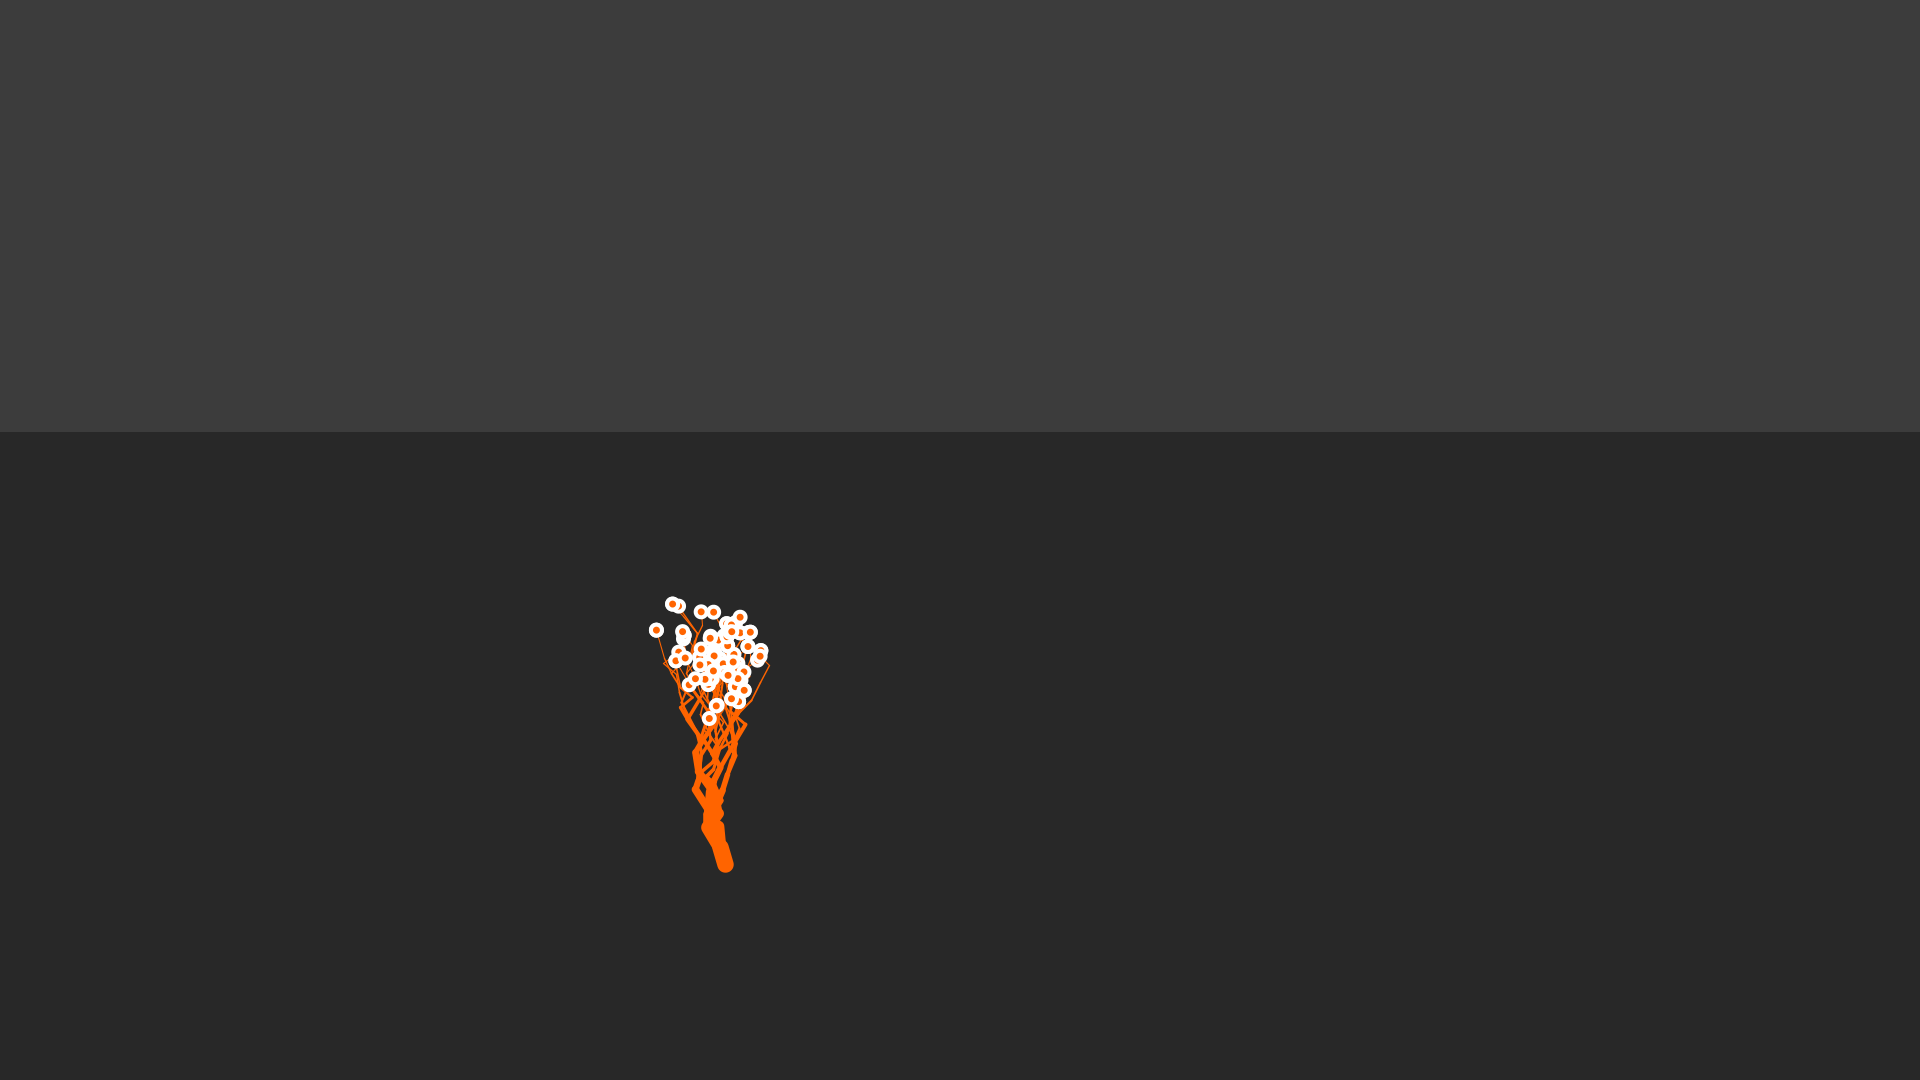
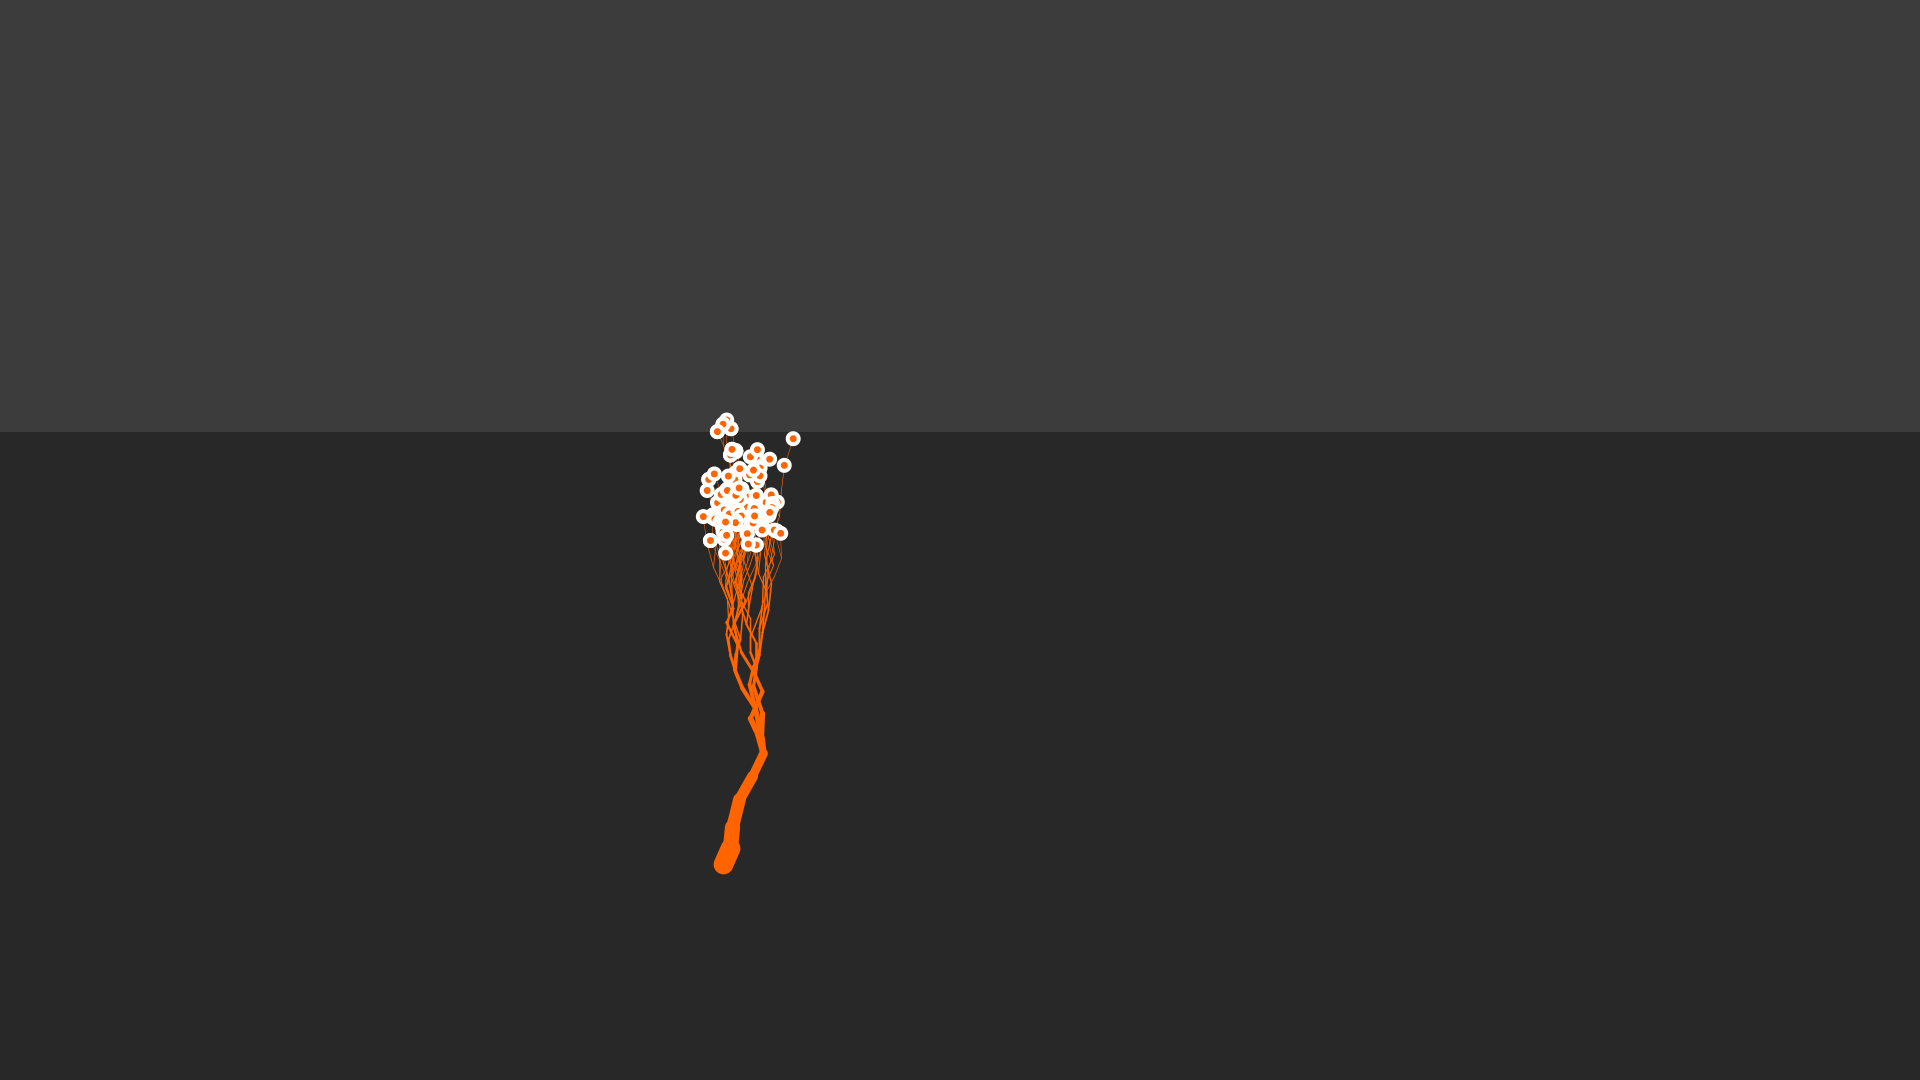
partially reverted extraction of state from PlantSegment

Changed region(s): [[0.3438, 0.3667, 0.4375, 0.7944]]

diff --git a/tree/src/main/java/team/dedica/logo/tree/ForestPlanter.java b/tree/src/main/java/team/dedica/logo/tree/ForestPlanter.java
@@ -2,7 +2,9 @@ package team.dedica.logo.tree;
 
 import processing.core.PApplet;
 import processing.core.PVector;
-import team.dedica.logo.tree.plants.TreeParameters;
+import team.dedica.logo.tree.items.PlantSegment;
+import team.dedica.logo.tree.items.Tree;
+import team.dedica.logo.tree.items.TreeParameters;
 
 import java.util.ArrayList;
 import java.util.List;
@@ -20,6 +22,7 @@ public class ForestPlanter implements Planter {
     static final float MAX_FOREST_HEIGHT_FACTOR = 0.385f;
     private final int width;
     private final int height;
+    private final List<PlantSegment<Tree>> plants = new ArrayList<>();
 
     public ForestPlanter(int width, int height) {
         this.width = width;
@@ -27,11 +30,10 @@ public class ForestPlanter implements Planter {
     }
 
     @Override
-    public List<PlantSegment> plant() {
+    public int plant() {
 
 
         TreeParameters treeParameters = new TreeParameters();
-        List<PlantSegment> seeds = new ArrayList<>();
         final float limit = height * (1 - MAX_FOREST_HEIGHT_FACTOR);
         int step = 2;
         for (int line = (int) limit; line < height; line += step) {
@@ -65,15 +67,15 @@ public class ForestPlanter implements Planter {
                 float halfStep = (float) (step / 2.5);
                 float y = line + random(-halfStep, halfStep);
 
-                seeds.add(treeParameters.getSeed(new PVector(seedX, y), scaleRatio));
+                plants.add(treeParameters.getSeed(new PVector(seedX, y), scaleRatio));
             }
         }
 
-        return seeds;
+        return plants.size();
     }
 
     @Override
-    public void draw(PApplet applet, List<PlantSegment> plants) {
+    public void draw(PApplet applet) {
 
         applet.background(40, 40, 40);
         applet.ellipseMode(PApplet.CENTER);

diff --git a/tree/src/main/java/team/dedica/logo/tree/items/TreeParameters.java b/tree/src/main/java/team/dedica/logo/tree/items/TreeParameters.java
@@ -1,14 +1,13 @@
-package team.dedica.logo.tree.plants;
+package team.dedica.logo.tree.items;
 
 import processing.core.PVector;
 import team.dedica.logo.tree.GrowthParameters;
-import team.dedica.logo.tree.PlantSegment;
 
 import static team.dedica.logo.tree.Util.random;
 
 public class TreeParameters implements GrowthParameters<Tree> {
 
-    public static final double MIN_DIAMETER_TO_GROW = 1;
+    public static final double MIN_DIAMETER_TO_GROW = 0.5;
     public static final double MIN_BRANCH_PROBABILITY = 0.25;
 
     /**
@@ -20,7 +19,7 @@ public class TreeParameters implements GrowthParameters<Tree> {
     /**
      * branch growth velocity reduction per cycle
      */
-    public static final float VELOCITY_REDUCTION = 0.55f;
+    public static final float VELOCITY_REDUCTION = 0.75f;
     public static final int MAX_STEM_DIAMETER = 20;
     public static final int MIN_ITERATION_TO_BRANCH = 6;
 
@@ -33,7 +32,6 @@ public class TreeParameters implements GrowthParameters<Tree> {
                 this
         );
     }
-
 
     public boolean canStillGrow(PlantSegment<Tree> plantSegment) {
         return plantSegment.diameter > MIN_DIAMETER_TO_GROW;
@@ -83,8 +81,9 @@ public class TreeParameters implements GrowthParameters<Tree> {
     public PVector createGrowthVector(PlantSegment<Tree> plant) {
         PVector growthVector = new PVector(plant.velocity.x, plant.velocity.y);
         growthVector.normalize();
-        growthVector.mult(getVelocityReduction()); //slower growth
         growthVector.add(bump());
+        growthVector.normalize();
+        growthVector.mult(getVelocityReduction()); //slower growth
         growthVector.mult(getRandomVelocityFactor(plant) * plant.scaleFactor);
         return growthVector;
     }

diff --git a/tree/src/main/java/team/dedica/logo/tree/SingleTreePlanter.java b/tree/src/main/java/team/dedica/logo/tree/SingleTreePlanter.java
@@ -2,7 +2,8 @@ package team.dedica.logo.tree;
 
 import processing.core.PApplet;
 import processing.core.PVector;
-import team.dedica.logo.tree.plants.TreeParameters;
+import team.dedica.logo.tree.items.PlantSegment;
+import team.dedica.logo.tree.items.TreeParameters;
 
 import java.util.ArrayList;
 import java.util.List;
@@ -17,27 +18,27 @@ public class SingleTreePlanter implements Planter {
     private final int width;
     private final int height;
 
+    private final List<PlantSegment> plants = new ArrayList<>();
+
     public SingleTreePlanter(int width, int height) {
         this.width = width;
         this.height = height;
     }
 
     @Override
-    public List<PlantSegment> plant() {
-        List<PlantSegment> plants = new ArrayList<>();
+    public int plant() {
 
         float x = (float) (width * 0.375 + random(-10, 10));
-
         float y = (float) (height * 0.8);
 
         TreeParameters parameters = new TreeParameters();
         plants.add(parameters.getSeed(new PVector(x, y), 1));
 
-        return plants;
+        return plants.size();
     }
 
     @Override
-    public void draw(PApplet applet, List<PlantSegment> plants) {
+    public void draw(PApplet applet) {
         applet.background(40, 40, 40);
         applet.ellipseMode(PApplet.CENTER);
         applet.smooth();

diff --git a/tree/src/main/java/team/dedica/logo/tree/ForestApplet.java b/tree/src/main/java/team/dedica/logo/tree/ForestApplet.java
@@ -2,6 +2,7 @@ package team.dedica.logo.tree;
 
 import processing.core.PApplet;
 import processing.core.PGraphics;
+import team.dedica.logo.tree.items.PlantSegment;
 
 import java.util.ArrayList;
 import java.util.Arrays;
@@ -16,7 +17,7 @@ public class ForestApplet extends PApplet {
     /**
      * The planter responsible for seeding the plants.
      */
-    Planter planter;
+    List<Planter> planters = new ArrayList<>();
 
     /**
      * The plants.
@@ -71,10 +72,11 @@ public class ForestApplet extends PApplet {
     @Override
     public void setup() {
 
-        planter = new SingleTreePlanter(width, height);
-        plants.addAll(planter.plant());
+        planters.add(new HorizonPlanter(width, height));
+        planters.add(new SingleTreePlanter(width, height));
+        planters.forEach(planter -> planter.plant());
 
-        println("Planter planted " + plants.size() + " trees.");
+        println("Planters planted " + plants.size() + " objects.");
     }
 
     @Override
@@ -100,7 +102,7 @@ public class ForestApplet extends PApplet {
             background(40, 40, 40);
         }
 
-        planter.draw(this, plants);
+        planters.forEach(planter -> planter.draw(this));
 
         if (svgOutput || pngOutput) {
             println("stopping output");

diff --git a/tree/src/main/java/team/dedica/logo/tree/HorizonPlanter.java b/tree/src/main/java/team/dedica/logo/tree/HorizonPlanter.java
@@ -1,0 +1,26 @@
+package team.dedica.logo.tree;
+
+import processing.core.PApplet;
+
+public class HorizonPlanter implements Planter {
+    private final int width;
+    private final int height;
+
+    public HorizonPlanter(int width, int height) {
+        this.width = width;
+        this.height = height;
+    }
+
+    @Override
+    public int plant() {
+        return 1;
+    }
+
+    @Override
+    public void draw(PApplet applet) {
+        applet.noStroke();
+        applet.fill(60, 60, 60, 255);
+        float horizon = (float) (height * 0.4);
+        applet.rect(0, 0, width, horizon);
+    }
+}

diff --git a/tree/src/main/java/team/dedica/logo/tree/items/PlantSegment.java b/tree/src/main/java/team/dedica/logo/tree/items/PlantSegment.java
@@ -1,14 +1,15 @@
-package team.dedica.logo.tree;
+package team.dedica.logo.tree.items;
 
 import processing.core.PApplet;
 import processing.core.PVector;
+import team.dedica.logo.tree.GrowthParameters;
 
 import java.util.ArrayList;
 import java.util.List;
 
 import static team.dedica.logo.tree.Util.random;
 
-public class PlantSegment<T> {
+public class PlantSegment<T> implements Item {
 
 
     public final int iteration;

diff --git a/tree/src/main/java/team/dedica/logo/tree/Planter.java b/tree/src/main/java/team/dedica/logo/tree/Planter.java
@@ -2,16 +2,14 @@ package team.dedica.logo.tree;
 
 import processing.core.PApplet;
 
-import java.util.List;
-
 public interface Planter {
 
     float GOLDEN_CUT = 1.618033988749f;
 
     /**
-     * @return the planted plants
+     * @return the number of planted items
      */
-    List<PlantSegment> plant();
+    int plant();
 
-    void draw(PApplet applet, List<PlantSegment> plants);
+    void draw(PApplet applet);
 }

diff --git a/tree/src/main/java/team/dedica/logo/tree/items/Item.java b/tree/src/main/java/team/dedica/logo/tree/items/Item.java
@@ -1,0 +1,13 @@
+package team.dedica.logo.tree.items;
+
+import processing.core.PApplet;
+
+/**
+ * A scenery item.
+ *
+ * Responsible to draw itself.
+ */
+public interface Item {
+
+    void draw(PApplet applet);
+}

diff --git a/tree/src/main/java/team/dedica/logo/tree/GrowthParameters.java b/tree/src/main/java/team/dedica/logo/tree/GrowthParameters.java
@@ -1,6 +1,7 @@
 package team.dedica.logo.tree;
 
 import processing.core.PVector;
+import team.dedica.logo.tree.items.PlantSegment;
 
 public interface GrowthParameters<T> {
 

diff --git a/tree/src/main/java/team/dedica/logo/tree/items/Tree.java b/tree/src/main/java/team/dedica/logo/tree/items/Tree.java
@@ -1,0 +1,4 @@
+package team.dedica.logo.tree.items;
+
+public class Tree {
+}
